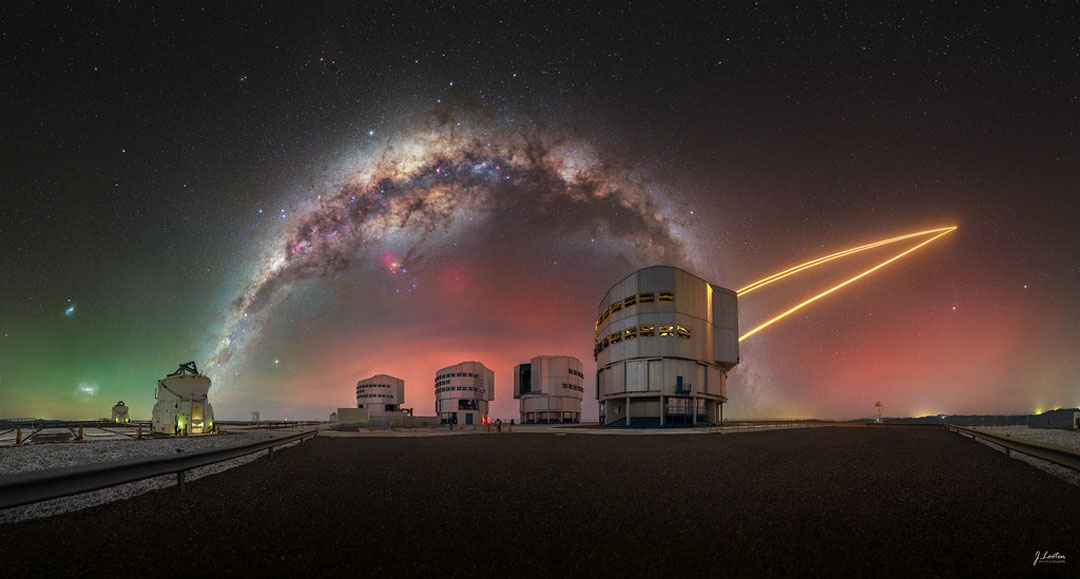
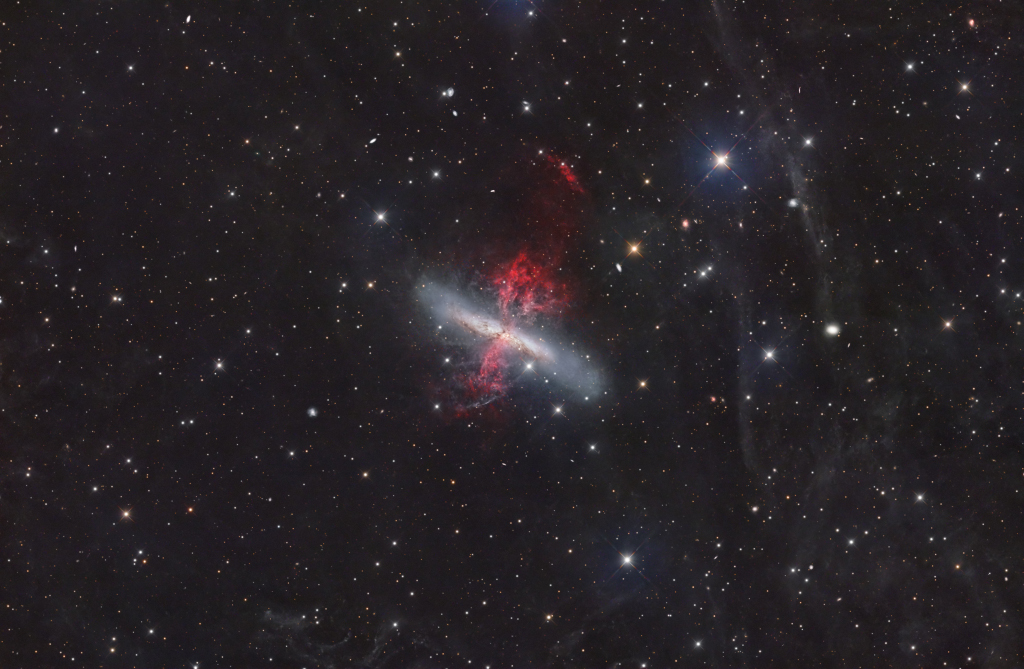
descripcion corregida

diff --git a/descarga.py b/descarga.py
@@ -1,0 +1,36 @@
+import requests
+import os
+import glob
+
+URL = "https://api.nasa.gov/planetary/apod"
+API_KEY = "Ly4WNI3SbtbqVch7GXNzn0MpJ5fzP2dfMBjdCzxL"
+
+def descarga_multimedia(url_api, key_api):
+    NOMBRE_BASE="archivo_descargado"
+    headers ={
+        'User-agent': 'Mozilla/5.0',
+        'Authorization': f'Bearer {key_api}'
+    }
+    
+    try:
+        with requests.get(url_api, headers=headers, stream=True) as respuesta:
+            respuesta.raise_for_status()
+            
+            contenido = respuesta.headers.get('Content-Type', '')
+            extension = ".mp4" if "video" in contenido else ".jpg"
+            nombre_archivo_final = f"{NOMBRE_BASE}{extension}"
+
+            for archivo_viejo in glob.glob(f"{NOMBRE_BASE}*"):
+                os.remove(archivo_viejo)
+
+            with open(nombre_archivo_final, 'wb') as archivo_guardado:
+                for bloque in respuesta.iter_content(chunk_size=1024*1024):
+                    if bloque:
+                        archivo_guardado.write(bloque)
+
+            print(f"Archivo descargado: {nombre_archivo_final}")
+
+    except requests.exceptions.RequestException as e:
+        print(f"Error en la conexion: {e}")
+
+descarga_multimedia(URL, API_KEY)

diff --git a/main.py b/main.py
@@ -22,7 +22,7 @@ try:
 
     print(f"--- {titulo} ({fecha}) ---")
     print(f"Url de la imagen: {url_imagen}")
-    print(f"\nDEscripcion breve: {explicacion[:150]}...")
+    print(f"\nDEscripcion : {explicacion}")
 
 except requests.exceptions.RequestException as e:
     print(f"Error en la conexion: {e}")
